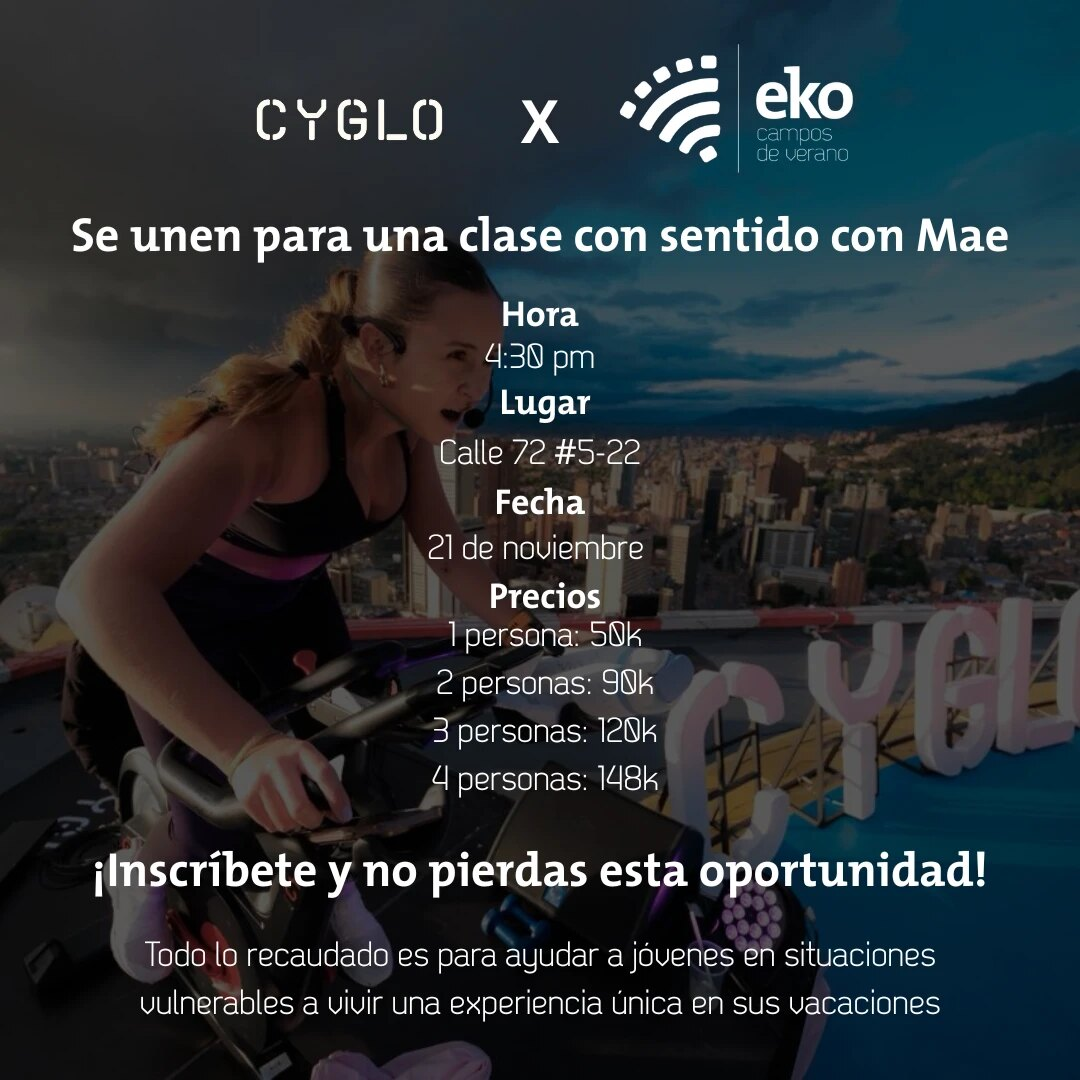
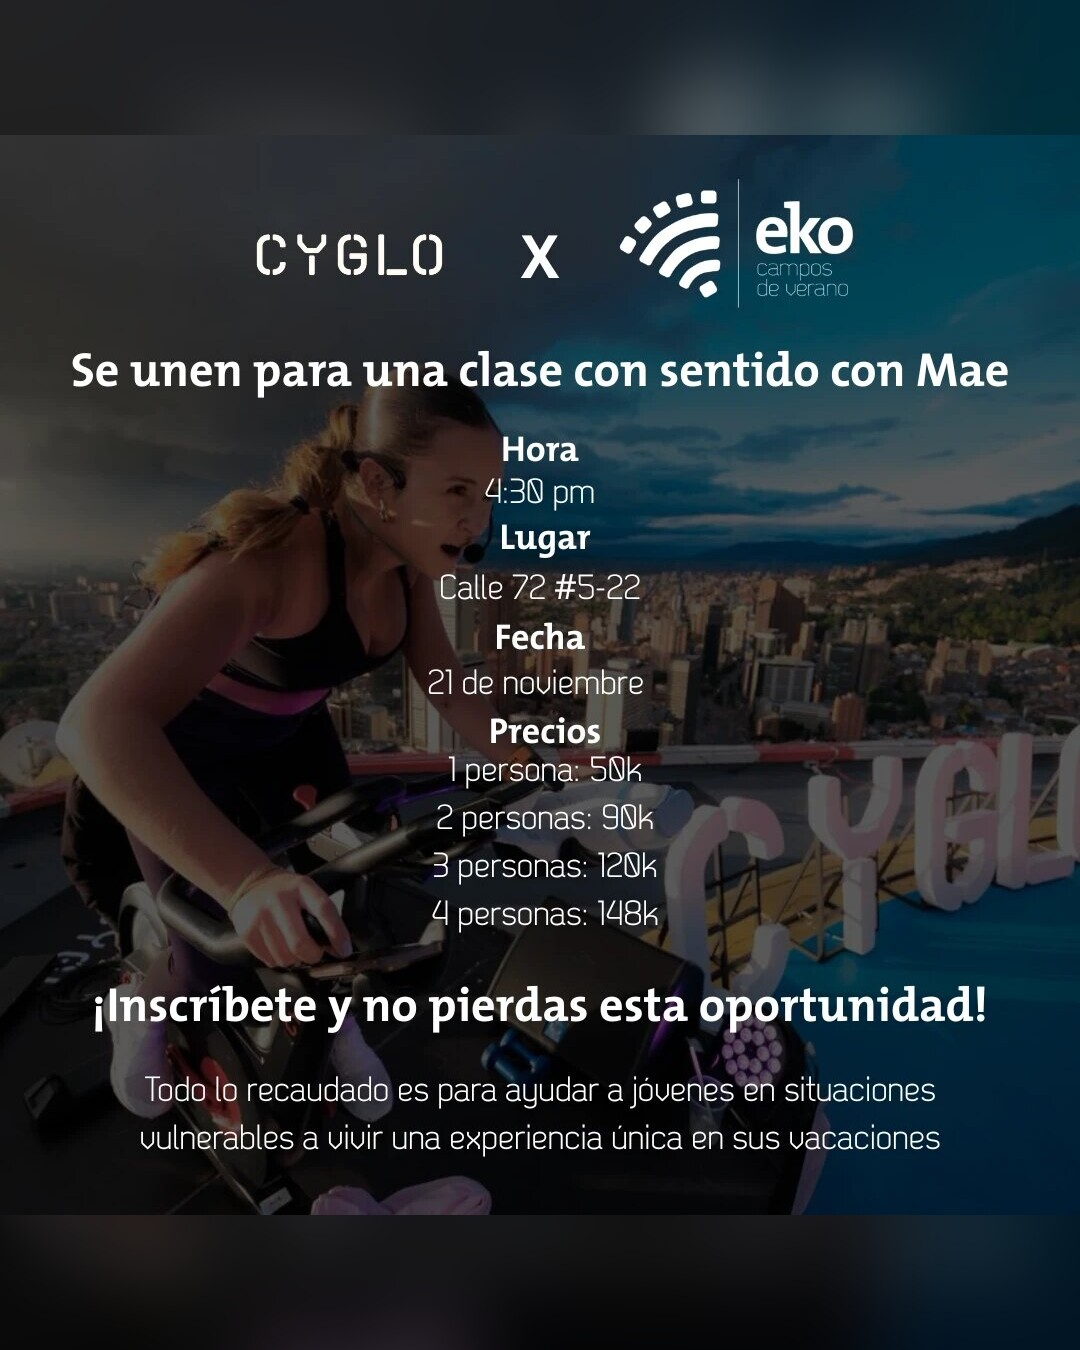
ASC: Cyglo a 4:5 con fondo difuminado, quitar última lámina EKO
Claude-Session: https://claude.ai/code/session_01Coc6eacKHoP6PzbwVzjPaE

diff --git a/portafolio/index.html b/portafolio/index.html
@@ -618,7 +618,7 @@
         textoPortada: "ASC",
         secciones: [
           { titulo: "Posts y piezas de campaña", texto: "Piezas para eventos y convocatorias: retiros, temporadas de campos de verano y eventos de recaudación con aliados como Cyglo.", imagenes: ["assets/asc/post-1.jpg", "assets/asc/post-2.jpg", "assets/asc/post-4.jpg"], columnas: 3, ajuste: "contain" },
-          { titulo: "Carrusel: el camino del dirigente EKO", texto: "Carrusel que explica el rol de los dirigentes de los campos de verano EKO, paso a paso, y cierra con una invitación a donar.", imagenes: ["assets/asc/eko-1.jpg", "assets/asc/eko-2.jpg", "assets/asc/eko-3.jpg", "assets/asc/eko-4.jpg", "assets/asc/eko-5.jpg"], columnas: 5 },
+          { titulo: "Carrusel: el camino del dirigente EKO", texto: "Carrusel que explica el rol de los dirigentes de los campos de verano EKO, paso a paso, y cierra con una invitación a donar.", imagenes: ["assets/asc/eko-1.jpg", "assets/asc/eko-2.jpg", "assets/asc/eko-3.jpg", "assets/asc/eko-4.jpg"], columnas: 4 },
           { titulo: "Carrusel: ¿Alguna vez conociste a Dios?", texto: "Carrusel de convocatoria para los campos de verano EKO. Cada lámina muestra una experiencia distinta del campo.", imagenes: ["assets/asc/dios-1.jpg", "assets/asc/dios-2.jpg", "assets/asc/dios-3.jpg", "assets/asc/dios-4.jpg"], columnas: 4 }
         ],
         galeria: [],
